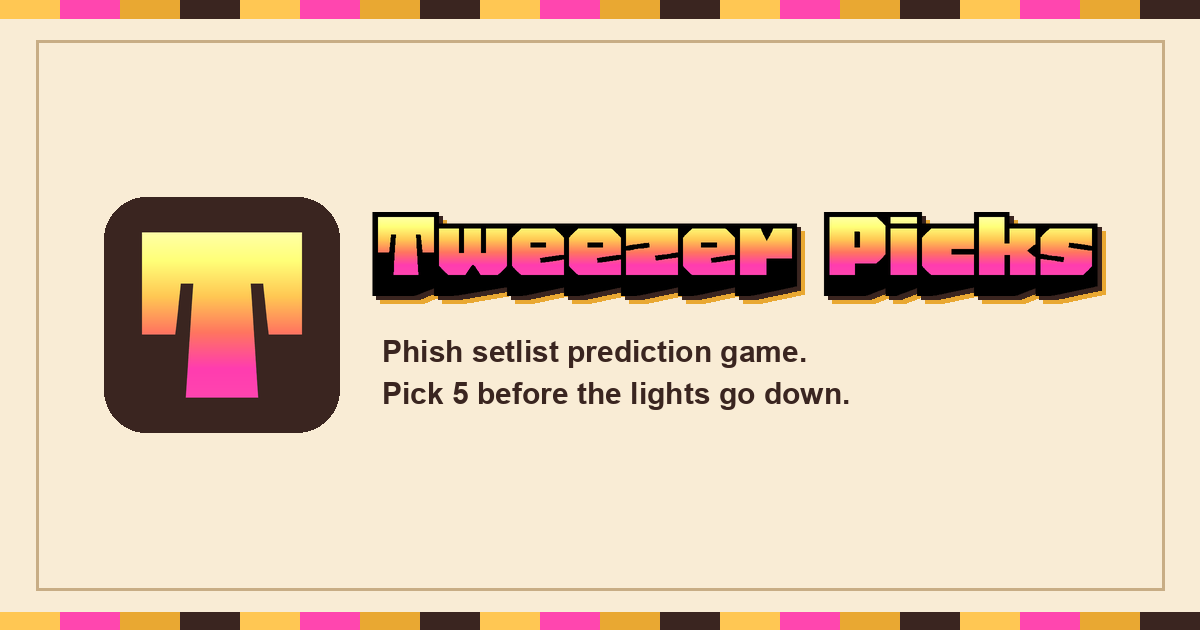
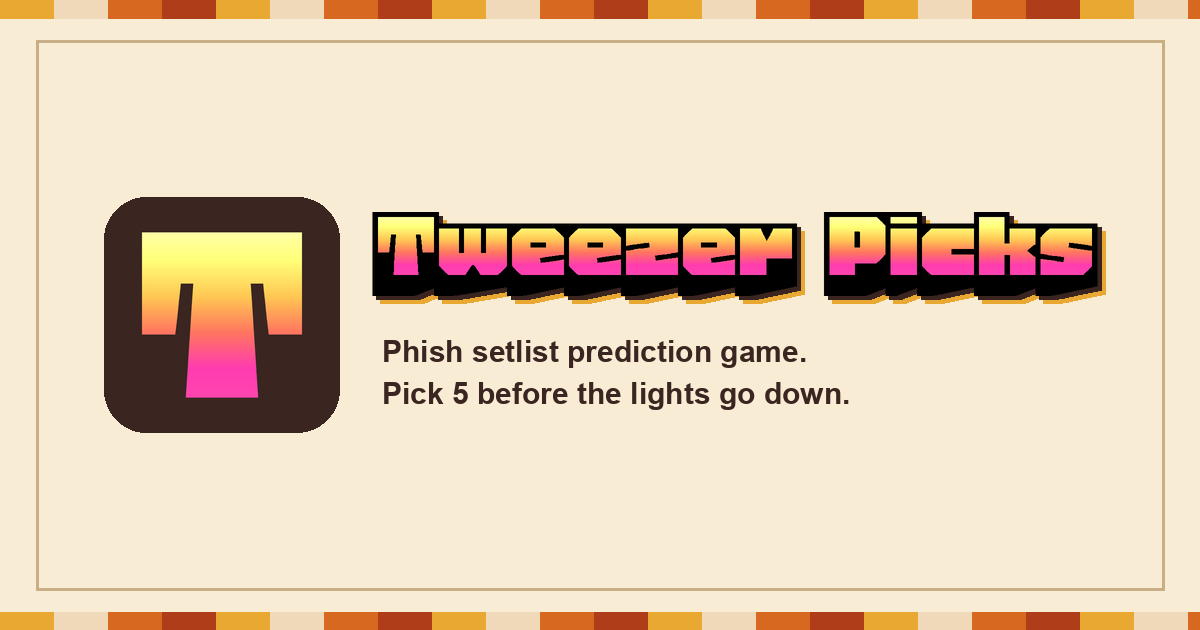
fix(branding): use the site's stripe palette on the social card
The card's rules were drawn in Honk's amber and hot pink, borrowed from the
glyph's gradient. Those colours appear nowhere in the site's furniture. The
real .topbar::after cycles --gold, --cream-pop, --orange and --brick at 18px,
scaled 3x here because the card is a poster rather than a 1:1 screenshot of
the header. Pink stays where it belongs, in the glyph.

Sampled from the regenerated card to confirm: #E9A832, #F0D9B8, #D6691F,
#B03D1A repeating every 54px, on both rules, with no pink or ink in the bar.

Card only. The mark is unchanged and every icon file is byte-identical to
a57d55d.

Changed region(s): [[0.0, 0.9651, 1.0, 1.0], [0.0, 0.0, 1.0, 0.0302]]

diff --git a/scripts/make_brand_assets.py b/scripts/make_brand_assets.py
@@ -45,6 +45,9 @@ GRADIENT = [
 PAPER = (0xF9, 0xEC, 0xD5)
 INK = (0x3A, 0x25, 0x20)   # --ink, the theme's warm near-black
 GOLD = (0xE9, 0xA8, 0x32)  # --gold
+CREAM_POP = (0xF0, 0xD9, 0xB8)  # --cream-pop
+ORANGE = (0xD6, 0x69, 0x1F)     # --orange
+BRICK = (0xB0, 0x3D, 0x1A)      # --brick
 RULE = (0xC8, 0xAD, 0x85)
 BLACK = (0x00, 0x00, 0x00)
 
@@ -313,6 +316,7 @@ def render_mark(size: int, variant: str = "glyph_only",
 
 # --- Social card -------------------------------------------------------------
 OG_W, OG_H = 1200, 630
+_RULE_K = 3  # the CSS rule is authored at 18px/6px for a browser topbar
 # The tagline is the only text not drawn from outlines, so it needs a real
 # font file. Candidates cover macOS and common Linux/CI images; Pillow's
 # bitmap default is the last resort so a regeneration never hard-fails on a
@@ -341,11 +345,17 @@ def render_og(taglines: list[str]) -> Image.Image:
     img = Image.new("RGB", (OG_W, OG_H), PAPER)
     d = ImageDraw.Draw(img)
 
-    band_h = 18
-    for x in range(0, OG_W, 60):
-        colour = [GRADIENT[3][1], GRADIENT[0][1], GOLD, INK][(x // 60) % 4]
-        d.rectangle([x, 0, x + 60, band_h], fill=colour)
-        d.rectangle([x, OG_H - band_h, x + 60, OG_H], fill=colour)
+    # The site's .topbar::after stripe: gold, cream-pop, orange, brick, cycling
+    # at 18px. Scaled 3x here because the card is a poster, not a 1:1 screenshot
+    # of the header. Deliberately NOT the Honk gradient's amber and pink: those
+    # belong to the glyph, and borrowing them invents a palette the site never
+    # uses.
+    band_h = 6 * _RULE_K
+    seg = 18 * _RULE_K
+    cycle = [GOLD, CREAM_POP, ORANGE, BRICK]
+    for i, x in enumerate(range(0, OG_W, seg)):
+        d.rectangle([x, 0, x + seg, band_h], fill=cycle[i % 4])
+        d.rectangle([x, OG_H - band_h, x + seg, OG_H], fill=cycle[i % 4])
     d.rectangle([36, band_h + 22, OG_W - 36, OG_H - band_h - 22],
                 outline=RULE, width=3)
 
